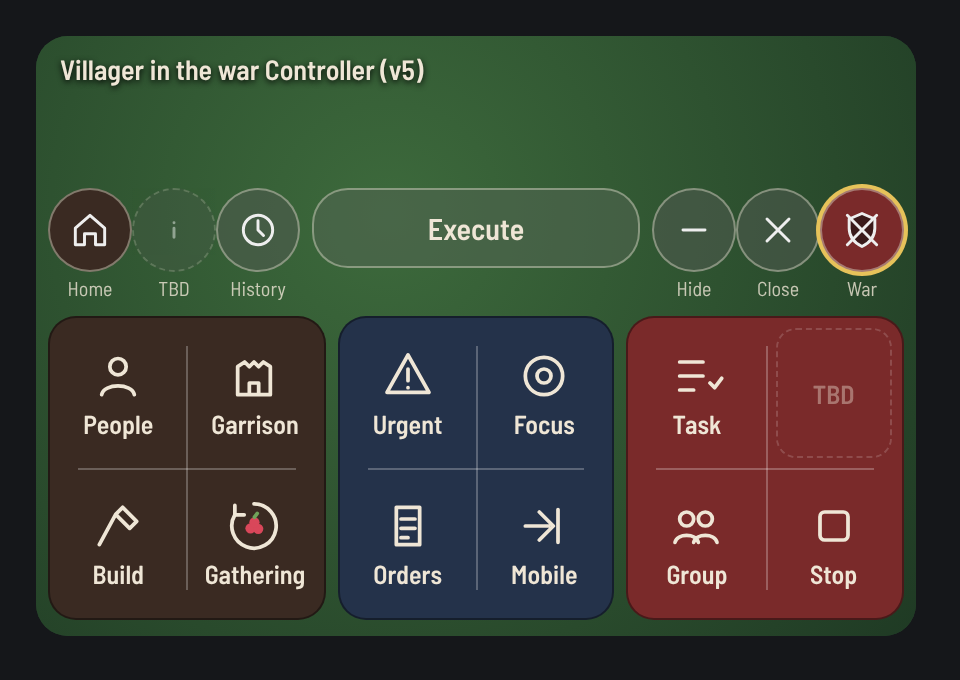
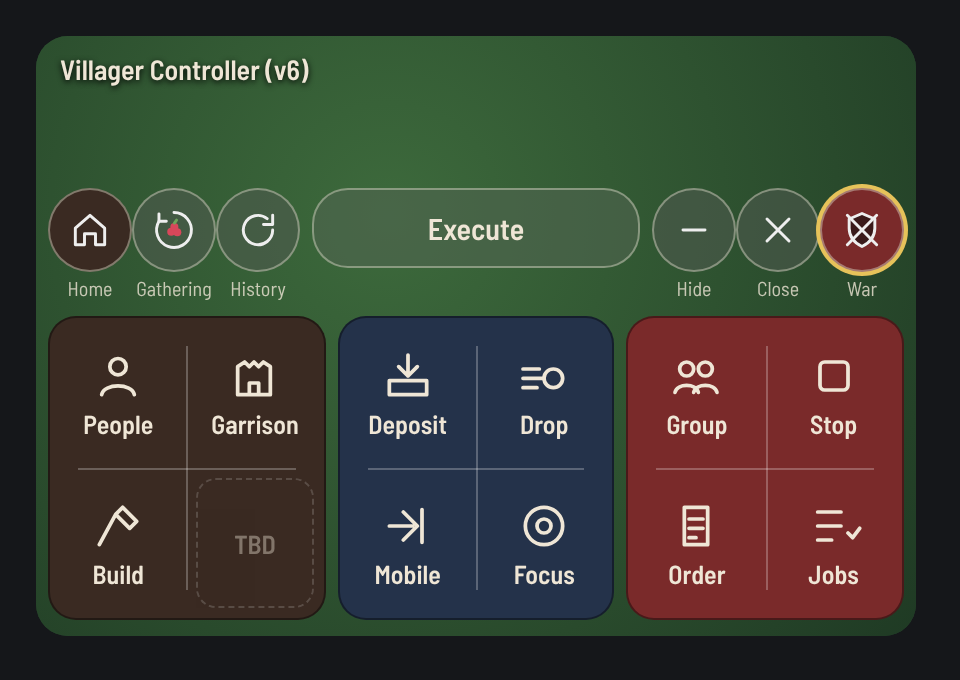
Mock: the villager Controller, v6 (napkin 4)
Claude-Session: https://claude.ai/code/session_017QywRJBcxaNk58v8RT3hvF

diff --git a/mockups/p2c/ctl.html b/mockups/p2c/ctl.html
@@ -17,4 +17,4 @@
 .info.wide{height:150px}.tabs{display:flex;gap:4px;margin-bottom:6px}.tabs em{font-style:normal;font:600 11px 'Barlow Semi Condensed';padding:2px 6px;border-radius:8px;border:1px solid rgba(255,255,255,.3)}.tabs em.on{border-color:#e6c25a;color:#ffe9a6}
 .seg{display:flex;flex-direction:column;justify-content:center;gap:10px;padding:8px}.sg{display:flex;border:1px solid rgba(255,255,255,.35);border-radius:10px;overflow:hidden}.sg span{flex:1;text-align:center;padding:9px 0;font:600 12px 'Barlow Semi Condensed'}.sg span+span{border-left:1px solid rgba(255,255,255,.25)}.sg span.lit{background:rgba(230,194,90,.25);color:#ffe9a6}
 .set .q:nth-child(3){} 
- body{grid-template-columns:440px} .tbd{opacity:.4;border:1px dashed rgba(255,255,255,.4)} .dw{display:flex;flex-direction:column;align-items:center;gap:2px}.dw small{font:400 10px "Barlow Semi Condensed";opacity:.8} .dot.tbd2{border-style:dashed;opacity:.5} .dot.warb{background:#7a2a2a;box-shadow:0 0 0 2px #e6c25a} .pill{height:38px;align-self:flex-start;font-size:15px}</style></head><body><div class="ph" style="height:300px"><div class="cap">Villager in the war Controller (v5)</div><div class="map"></div><div class="ctl"><div class="top"><div class="dw"><div class="dot brown"><svg viewBox="0 0 24 24" width="22" height="22" fill="none" stroke="currentColor" stroke-width="1.6" stroke-linecap="round" stroke-linejoin="round"><path d='M4 11l8-7 8 7v9h-5v-6H9v6H4z'/></svg></div><small>Home</small></div><div class="dw"><div class="dot tbd2"><svg viewBox="0 0 24 24" width="22" height="22" fill="none" stroke="currentColor" stroke-width="1.6" stroke-linecap="round" stroke-linejoin="round"><path d='M12 8h.01M12 11v5'/></svg></div><small>TBD</small></div><div class="dw"><div class="dot "><svg viewBox="0 0 24 24" width="22" height="22" fill="none" stroke="currentColor" stroke-width="1.6" stroke-linecap="round" stroke-linejoin="round"><circle cx='12' cy='12' r='8'/><path d='M12 7v5l3 3'/></svg></div><small>History</small></div><div class="pill">Execute</div><div class="dw"><div class="dot "><svg viewBox="0 0 24 24" width="22" height="22" fill="none" stroke="currentColor" stroke-width="1.6" stroke-linecap="round" stroke-linejoin="round"><path d='M6 12h12'/></svg></div><small>Hide</small></div><div class="dw"><div class="dot "><svg viewBox="0 0 24 24" width="22" height="22" fill="none" stroke="currentColor" stroke-width="1.6" stroke-linecap="round" stroke-linejoin="round"><path d='M6 6l12 12M18 6L6 18'/></svg></div><small>Close</small></div><div class="dw"><div class="dot warb"><svg viewBox="0 0 24 24" width="22" height="22" fill="none" stroke="currentColor" stroke-width="1.6" stroke-linecap="round" stroke-linejoin="round"><path d="M12 3l7 3v5c0 5-3 8-7 10-4-2-7-5-7-10V6z" fill="#3a1a1a"/><path d="M4 4l16 16M20 4L4 20"/></svg></div><small>War</small></div></div><div class="pads"><div class="pad brown"><i class="v"></i><i class="h"></i><div class="q "><svg viewBox="0 0 24 24" width="28" height="28" fill="none" stroke="currentColor" stroke-width="1.6" stroke-linecap="round" stroke-linejoin="round"><circle cx="12" cy="8" r="3.5"/><path d="M5 20c1-5 13-5 14 0"/></svg><span>People</span></div><div class="q "><svg viewBox="0 0 24 24" width="28" height="28" fill="none" stroke="currentColor" stroke-width="1.6" stroke-linecap="round" stroke-linejoin="round"><path d="M5 20V8l3-2 2 2 2-2 2 2 2-2 3 2v12z M10 20v-5h4v5"/></svg><span>Garrison</span></div><div class="q "><svg viewBox="0 0 24 24" width="28" height="28" fill="none" stroke="currentColor" stroke-width="1.6" stroke-linecap="round" stroke-linejoin="round"><path d="M14 4l6 6-3 3-6-6z M11 7L4 20"/></svg><span>Build</span></div><div class="q "><svg viewBox="0 0 24 24" width="28" height="28" fill="none" stroke="currentColor" stroke-width="1.6" stroke-linecap="round" stroke-linejoin="round"><path d="M12 2.5a9.5 9.5 0 1 1-8.2 4.7"/><path d="M3.8 3.2v4h4"/><circle cx="10.5" cy="13" r="2.2" fill="#d9475a" stroke="none"/><circle cx="13.8" cy="13.2" r="2.2" fill="#d9475a" stroke="none"/><circle cx="12.2" cy="10.4" r="2.2" fill="#d9475a" stroke="none"/><path d="M12.2 8.2l1.2-1.6" stroke="#6fa35a"/></svg><span>Gathering</span></div></div><div class="pad blue"><i class="v"></i><i class="h"></i><div class="q "><svg viewBox="0 0 24 24" width="28" height="28" fill="none" stroke="currentColor" stroke-width="1.6" stroke-linecap="round" stroke-linejoin="round"><path d="M12 3l9 16H3z M12 9v5M12 17h.01"/></svg><span>Urgent</span></div><div class="q "><svg viewBox="0 0 24 24" width="28" height="28" fill="none" stroke="currentColor" stroke-width="1.6" stroke-linecap="round" stroke-linejoin="round"><circle cx="12" cy="12" r="8"/><circle cx="12" cy="12" r="3"/></svg><span>Focus</span></div><div class="q "><svg viewBox="0 0 24 24" width="28" height="28" fill="none" stroke="currentColor" stroke-width="1.6" stroke-linecap="round" stroke-linejoin="round"><path d="M7 4h10v16H7z M9 9h6M9 13h6M9 17h3"/></svg><span>Orders</span></div><div class="q "><svg viewBox="0 0 24 24" width="28" height="28" fill="none" stroke="currentColor" stroke-width="1.6" stroke-linecap="round" stroke-linejoin="round"><path d="M4 12h10M10 6l6 6-6 6M18 5v14"/></svg><span>Mobile</span></div></div><div class="pad red"><i class="v"></i><i class="h"></i><div class="q "><svg viewBox="0 0 24 24" width="28" height="28" fill="none" stroke="currentColor" stroke-width="1.6" stroke-linecap="round" stroke-linejoin="round"><path d="M5 6h10M5 12h10M5 18h6M18 15l2 2 3-4"/></svg><span>Task</span></div><div class="q tbd"><span>TBD</span></div><div class="q "><svg viewBox="0 0 24 24" width="28" height="28" fill="none" stroke="currentColor" stroke-width="1.6" stroke-linecap="round" stroke-linejoin="round"><circle cx="8" cy="9" r="3"/><circle cx="16" cy="9" r="3"/><path d="M3 19c1-4 9-4 10 0M11 19c1-4 9-4 10 0"/></svg><span>Group</span></div><div class="q "><svg viewBox="0 0 24 24" width="28" height="28" fill="none" stroke="currentColor" stroke-width="1.6" stroke-linecap="round" stroke-linejoin="round"><rect x="6" y="6" width="12" height="12" rx="2"/></svg><span>Stop</span></div></div></div></div></body></html>
+ body{grid-template-columns:440px} .tbd{opacity:.4;border:1px dashed rgba(255,255,255,.4)} .dw{display:flex;flex-direction:column;align-items:center;gap:2px}.dw small{font:400 10px "Barlow Semi Condensed";opacity:.8} .dot.warb{background:#7a2a2a;box-shadow:0 0 0 2px #e6c25a} .pill{height:38px;align-self:flex-start;font-size:15px}</style></head><body><div class="ph" style="height:300px"><div class="cap">Villager Controller (v6)</div><div class="map"></div><div class="ctl"><div class="top"><div class="dw"><div class="dot brown"><svg viewBox="0 0 24 24" width="22" height="22" fill="none" stroke="currentColor" stroke-width="1.6" stroke-linecap="round" stroke-linejoin="round"><path d="M4 11l8-7 8 7v9h-5v-6H9v6H4z"/></svg></div><small>Home</small></div><div class="dw"><div class="dot "><svg viewBox="0 0 24 24" width="22" height="22" fill="none" stroke="currentColor" stroke-width="1.6" stroke-linecap="round" stroke-linejoin="round"><path d="M12 2.5a9.5 9.5 0 1 1-8.2 4.7"/><path d="M3.8 3.2v4h4"/><circle cx="10.5" cy="13" r="2.2" fill="#d9475a" stroke="none"/><circle cx="13.8" cy="13.2" r="2.2" fill="#d9475a" stroke="none"/><circle cx="12.2" cy="10.4" r="2.2" fill="#d9475a" stroke="none"/><path d="M12.2 8.2l1.2-1.6" stroke="#6fa35a"/></svg></div><small>Gathering</small></div><div class="dw"><div class="dot "><svg viewBox="0 0 24 24" width="22" height="22" fill="none" stroke="currentColor" stroke-width="1.6" stroke-linecap="round" stroke-linejoin="round"><path d="M20 12a8 8 0 1 1-3-6.2"/><path d="M20 4v5h-5"/></svg></div><small>History</small></div><div class="pill">Execute</div><div class="dw"><div class="dot "><svg viewBox="0 0 24 24" width="22" height="22" fill="none" stroke="currentColor" stroke-width="1.6" stroke-linecap="round" stroke-linejoin="round"><path d="M6 12h12"/></svg></div><small>Hide</small></div><div class="dw"><div class="dot "><svg viewBox="0 0 24 24" width="22" height="22" fill="none" stroke="currentColor" stroke-width="1.6" stroke-linecap="round" stroke-linejoin="round"><path d="M6 6l12 12M18 6L6 18"/></svg></div><small>Close</small></div><div class="dw"><div class="dot warb"><svg viewBox="0 0 24 24" width="22" height="22" fill="none" stroke="currentColor" stroke-width="1.6" stroke-linecap="round" stroke-linejoin="round"><path d="M12 3l7 3v5c0 5-3 8-7 10-4-2-7-5-7-10V6z" fill="#3a1a1a"/><path d="M4 4l16 16M20 4L4 20"/></svg></div><small>War</small></div></div><div class="pads"><div class="pad brown"><i class="v"></i><i class="h"></i><div class="q "><svg viewBox="0 0 24 24" width="28" height="28" fill="none" stroke="currentColor" stroke-width="1.6" stroke-linecap="round" stroke-linejoin="round"><circle cx="12" cy="8" r="3.5"/><path d="M5 20c1-5 13-5 14 0"/></svg><span>People</span></div><div class="q "><svg viewBox="0 0 24 24" width="28" height="28" fill="none" stroke="currentColor" stroke-width="1.6" stroke-linecap="round" stroke-linejoin="round"><path d="M5 20V8l3-2 2 2 2-2 2 2 2-2 3 2v12z M10 20v-5h4v5"/></svg><span>Garrison</span></div><div class="q "><svg viewBox="0 0 24 24" width="28" height="28" fill="none" stroke="currentColor" stroke-width="1.6" stroke-linecap="round" stroke-linejoin="round"><path d="M14 4l6 6-3 3-6-6z M11 7L4 20"/></svg><span>Build</span></div><div class="q tbd"><span>TBD</span></div></div><div class="pad blue"><i class="v"></i><i class="h"></i><div class="q "><svg viewBox="0 0 24 24" width="28" height="28" fill="none" stroke="currentColor" stroke-width="1.6" stroke-linecap="round" stroke-linejoin="round"><path d="M4 14h16v6H4z M12 3v9M8 8l4 4 4-4"/></svg><span>Deposit</span></div><div class="q "><svg viewBox="0 0 24 24" width="28" height="28" fill="none" stroke="currentColor" stroke-width="1.6" stroke-linecap="round" stroke-linejoin="round"><path d="M3 9h7M3 13h9M3 17h6"/><circle cx="16" cy="13" r="4"/></svg><span>Drop</span></div><div class="q "><svg viewBox="0 0 24 24" width="28" height="28" fill="none" stroke="currentColor" stroke-width="1.6" stroke-linecap="round" stroke-linejoin="round"><path d="M4 12h10M10 6l6 6-6 6M18 5v14"/></svg><span>Mobile</span></div><div class="q "><svg viewBox="0 0 24 24" width="28" height="28" fill="none" stroke="currentColor" stroke-width="1.6" stroke-linecap="round" stroke-linejoin="round"><circle cx="12" cy="12" r="8"/><circle cx="12" cy="12" r="3"/></svg><span>Focus</span></div></div><div class="pad red"><i class="v"></i><i class="h"></i><div class="q "><svg viewBox="0 0 24 24" width="28" height="28" fill="none" stroke="currentColor" stroke-width="1.6" stroke-linecap="round" stroke-linejoin="round"><circle cx="8" cy="9" r="3"/><circle cx="16" cy="9" r="3"/><path d="M3 19c1-4 9-4 10 0M11 19c1-4 9-4 10 0"/></svg><span>Group</span></div><div class="q "><svg viewBox="0 0 24 24" width="28" height="28" fill="none" stroke="currentColor" stroke-width="1.6" stroke-linecap="round" stroke-linejoin="round"><rect x="6" y="6" width="12" height="12" rx="2"/></svg><span>Stop</span></div><div class="q "><svg viewBox="0 0 24 24" width="28" height="28" fill="none" stroke="currentColor" stroke-width="1.6" stroke-linecap="round" stroke-linejoin="round"><path d="M7 4h10v16H7z M9 9h6M9 13h6M9 17h3"/></svg><span>Order</span></div><div class="q "><svg viewBox="0 0 24 24" width="28" height="28" fill="none" stroke="currentColor" stroke-width="1.6" stroke-linecap="round" stroke-linejoin="round"><path d="M5 6h10M5 12h10M5 18h6M18 15l2 2 3-4"/></svg><span>Jobs</span></div></div></div></div></div></body></html>
